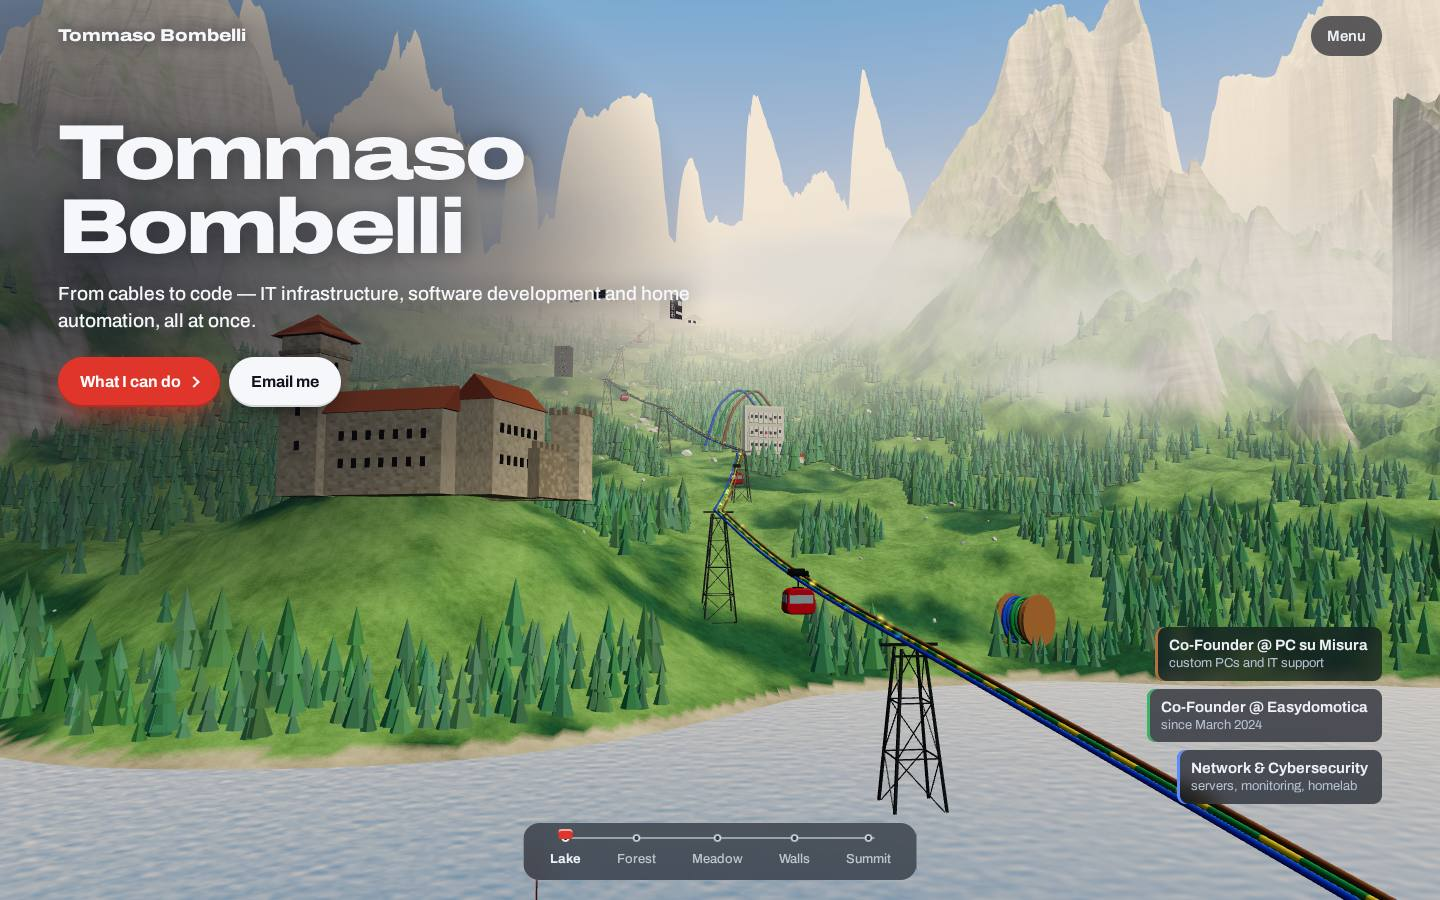
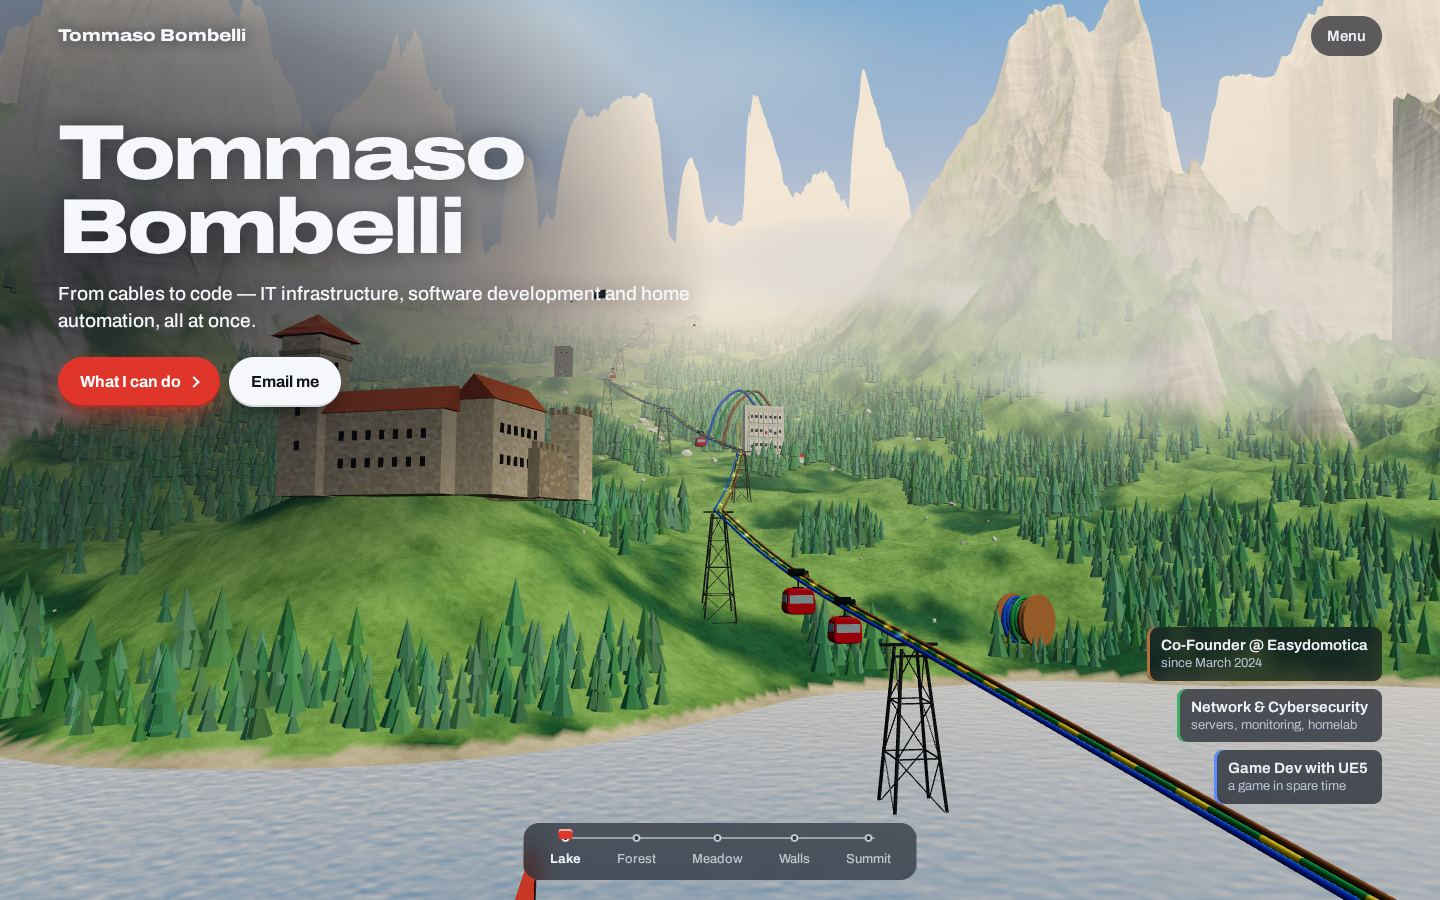
Tolta dal sito la seconda azienda

diff --git a/index.html b/index.html
@@ -11,9 +11,9 @@
 <link rel="stylesheet" href="style.css">
 <script>document.documentElement.classList.add('js');try{var t=localStorage.getItem('theme');if(t)document.documentElement.dataset.theme=t}catch(e){}</script>
 <title>Tommaso Bombelli — IT technician, developer, co-founder</title>
-<meta name="description" content="Tommaso Bombelli: IT technician and developer, co-founder of Easydomotica and PC su Misura. Networks, cybersecurity, home automation, software and a UE5 game.">
+<meta name="description" content="Tommaso Bombelli: IT technician and developer, co-founder of Easydomotica. Networks, cybersecurity, home automation, software and a UE5 game.">
 <meta property="og:title" content="Tommaso Bombelli">
-<meta property="og:description" content="IT technician, developer and co-founder of Easydomotica and PC su Misura. From cables to code.">
+<meta property="og:description" content="IT technician, developer and co-founder of Easydomotica. From cables to code.">
 <meta property="og:type" content="website">
 <meta property="og:url" content="https://tommasobombelli.com/">
 <meta property="og:image" content="https://tommasobombelli.com/img/photo_001.jpg">
@@ -39,7 +39,6 @@
     <li><a href="#lab">Homelab</a></li>
     <li><a href="#projects">Projects</a></li>
     <li><a href="#easydomotica">Easydomotica</a></li>
-    <li><a href="#pcsumisura">PC su Misura</a></li>
     <li><a href="#photography">Photos</a></li>
     <li><a href="#shell-sec">Shell</a></li>
     <li><a href="#contact">Contact</a></li>
@@ -67,9 +66,9 @@
         </div>
       </div>
       <ul class="roles" aria-label="What I do">
-        <li class="role role--L"><p data-role="0">Co-Founder @ PC su Misura<small>custom PCs and IT support</small></p></li>
-        <li class="role role--E"><p data-role="1">Co-Founder @ Easydomotica<small>since March 2024</small></p></li>
-        <li class="role role--N"><p data-role="2">Network &amp; Cybersecurity<small>servers, monitoring, homelab</small></p></li>
+        <li class="role role--L"><p data-role="0">Co-Founder @ Easydomotica<small>since March 2024</small></p></li>
+        <li class="role role--E"><p data-role="1">Network &amp; Cybersecurity<small>servers, monitoring, homelab</small></p></li>
+        <li class="role role--N"><p data-role="2">Game Dev with UE5<small>a game in spare time</small></p></li>
       </ul>
     </section>
     <section class="stop" id="stop-1" data-ink="dark" aria-labelledby="s1-h">
@@ -99,12 +98,11 @@
         <div class="actions">
           <a class="btn btn--go" href="#projects">Projects</a>
           <a class="btn" href="#easydomotica">Easydomotica</a>
-          <a class="btn" href="#pcsumisura">PC su Misura</a>
         </div>
         <div class="peeks">
           <a class="peek" href="#projects"><img src="assets/preview-erp.svg" width="320" height="200" alt="" loading="lazy"><span>Easydomotica ERP</span></a>
           <a class="peek" href="#lab"><img src="assets/preview-lab.svg" width="320" height="200" alt="" loading="lazy"><span>Home Datacenter</span></a>
-          <a class="peek" href="#pcsumisura"><img src="assets/preview-pcsumisura.jpg" width="1280" height="800" alt="" loading="lazy"><span>pcsumisura.net</span></a>
+          <a class="peek" href="#projects"><img src="assets/preview-hass.svg" width="320" height="200" alt="" loading="lazy"><span>HASS Integration</span></a>
         </div>
       </div>
     </section>
@@ -136,7 +134,7 @@
     </figure>
     <div class="plate about__plate">
       <div class="about__text" id="about-text">
-        <p>I'm Tommaso, IT technician and developer near Milan. I started as an electrician, and a year of wiring real systems taught me to think in reliability, safety and structure. Today I co-run Easydomotica and PC su Misura.</p>
+        <p>I'm Tommaso, IT technician and developer near Milan. I started as an electrician, and a year of wiring real systems taught me to think in reliability, safety and structure. Today I co-run Easydomotica.</p>
       </div>
       <ul class="facts" id="about-facts"></ul>
       <section id="certifications" aria-labelledby="cert-h">
@@ -168,12 +166,12 @@
       <article><h3>Monitoring and alerts</h3><p>Metrics from every host and service, dashboards, uptime and speed checks, and alerts that reach me before anyone notices a problem.</p><p class="caps__tools">Prometheus and exporters, Grafana, Alertmanager, Uptime Kuma, MySpeed</p></article>
       <article><h3>Security</h3><p>Firewall rules, access control, updates and isolated test environments, plus a dedicated machine for checking my own setups the way an attacker would.</p><p class="caps__tools">Firewall management, access control, Kali Linux</p></article>
       <article><h3>Databases, backend and automation</h3><p>PostgreSQL instances for the ERP and client projects, Node.js backends, and automated workflows that connect services together.</p><p class="caps__tools">PostgreSQL, Node.js, PM2, n8n</p></article>
-      <article><h3>Smart homes and phone systems</h3><p>Home Assistant instances for testing, demos, backups and remote support, and 3CX phone systems for both companies.</p><p class="caps__tools">Home Assistant, HACS, 3CX</p></article>
+      <article><h3>Smart homes and phone systems</h3><p>Home Assistant instances for testing, demos, backups and remote support, and 3CX phone systems.</p><p class="caps__tools">Home Assistant, HACS, 3CX</p></article>
     </div>
     <div class="setup__foot">
       <aside class="callout" aria-labelledby="callout-h">
         <h3 id="callout-h">Tested at home, then used at work</h3>
-        <p>Everything on this list runs in my homelab before it goes anywhere else. Then I bring the same setups to the business clients of <a class="link" href="#pcsumisura">PC su Misura</a>: monitoring and alerts, backups, DNS filtering, reverse proxies, access control, phone systems and remote support, configured for small offices that have no IT department of their own.</p>
+        <p>Everything on this list runs in my homelab before it goes anywhere else. Then I bring the same setups to business clients: monitoring and alerts, backups, DNS filtering, reverse proxies, access control, phone systems and remote support, configured for small offices that have no IT department of their own.</p>
       </aside>
       <div>
         <h3>Languages and tools</h3>
@@ -200,7 +198,7 @@
       <div><b>Monitoring</b><span>Prometheus, PVE and blackbox exporters, Alertmanager, Grafana, Uptime Kuma, MySpeed</span></div>
       <div><b>Network</b><span>Nginx Proxy Manager, Pi-hole, Unbound</span></div>
       <div><b>Data</b><span>PostgreSQL for the ERP, Home Assistant and client projects</span></div>
-      <div><b>Work</b><span>Backend server, n8n, Home Assistant test and demo machines, 3CX for both companies</span></div>
+      <div><b>Work</b><span>Backend server, n8n, Home Assistant test and demo machines, 3CX phone systems</span></div>
       <div><b>Systems</b><span>Ubuntu and Windows Server VMs, Docker, Kali Linux</span></div>
       <div><b>Media</b><span>Plex, Jellyfin, Kavita and an automated library stack</span></div>
     </div>
@@ -221,7 +219,7 @@
       <div class="ed__top">
         <div>
           <h2 class="sign" id="ed-h">Easydomotica</h2>
-          <p>My first company, co-founded in March 2024. I run the technical side together with my business partner.</p>
+          <p>The company I co-founded in March 2024. I run the technical side together with my business partner.</p>
           <a class="shot" href="https://easydomotica.net" target="_blank" rel="noopener"><img src="assets/preview-easydomotica.jpg" width="1280" height="800" alt="The easydomotica.net home page" loading="lazy"></a>
           <p class="lead">We design and install smart homes from the cable up: lighting, climate, blinds, energy monitoring, CCTV and alarm systems, all working as one system. Behind it runs software I wrote myself.</p>
         </div>
@@ -266,63 +264,6 @@
             <span class="status">v1.4.0, MIT licence</span>
           </div>
         </div>
-      </div>
-    </div>
-  </section>
-
-  <!-- ================= PC SU MISURA ================= -->
-  <section class="page" id="pcsumisura" data-wire="L" aria-labelledby="pc-h">
-    <div class="plate pc">
-      <div class="pc__top">
-        <div>
-          <h2 class="sign" id="pc-h">PC su Misura</h2>
-          <p>My second company: custom PCs, new and refurbished, and IT support for homes and small businesses.</p>
-          <a class="shot" href="https://pcsumisura.net" target="_blank" rel="noopener"><img src="assets/preview-pcsumisura.jpg" width="1280" height="800" alt="The pcsumisura.net home page" loading="lazy"></a>
-          <p class="lead">For small companies and studios with no technician of their own, we are the external IT department: network, servers, backup and security, so they can get on with their work. It's where everything from my homelab gets put to work.</p>
-        </div>
-        <div class="facts-row">
-          <div><b>Free</b><span>IT check-up to start</span></div>
-          <div><b>MSP</b><span>Managed support contracts</span></div>
-          <div><b>Custom</b><span>New or refurbished PCs</span></div>
-          <div><b>Remote</b><span>Most problems fixed without a visit</span></div>
-        </div>
-      </div>
-      <div class="pc__two">
-        <div>
-          <h3>For businesses</h3>
-          <ul class="mini">
-            <li><b>Free check-up</b> of computers, network, backup and security, with the risks explained</li>
-            <li><b>Managed support</b> at a fixed yearly price per device: monitoring, updates, remote help</li>
-            <li><b>Accounts and Microsoft 365</b> for every employee, set up and closed when people come and go</li>
-            <li><b>Servers and domain controller</b>: one login per person for PC, shared folders and programs</li>
-            <li><b>NAS and shared folders</b> with permissions per person</li>
-            <li><b>Network and Wi-Fi</b>: router, firewall, switches and access points</li>
-            <li><b>Advanced endpoint security</b> against ransomware</li>
-            <li><b>Backup and disaster recovery</b>: off-site copies and a plan to restart</li>
-          </ul>
-        </div>
-        <div>
-          <h3>For homes and gamers</h3>
-          <ul class="mini">
-            <li><b>Custom PCs</b> built around use and budget: gaming, work, study, graphics</li>
-            <li><b>Upgrades</b> that save a slow PC for far less than a new one</li>
-            <li><b>Cleaning and thermal paste</b> for PCs and consoles that run hot</li>
-            <li><b>Software cleanup and remote help</b> without losing data</li>
-          </ul>
-          <table class="spec">
-            <caption>What we work with</caption>
-            <tr><th scope="row">Network</th><td>Fortinet, Ubiquiti, Aruba, Cisco</td></tr>
-            <tr><th scope="row">Storage</th><td>Synology, TrueNAS</td></tr>
-            <tr><th scope="row">Servers</th><td>Proxmox, VMware, Hyper-V</td></tr>
-            <tr><th scope="row">Security and backup</th><td>SentinelOne, Cynet, Acronis</td></tr>
-            <tr><th scope="row">Cloud</th><td>Microsoft 365, Azure, AWS, Hetzner</td></tr>
-          </table>
-        </div>
-      </div>
-      <div class="actions">
-        <a class="btn btn--go" href="https://pcsumisura.net" target="_blank" rel="noopener">Visit pcsumisura.net</a>
-        <a class="btn" href="mailto:pcsumisura.info@gmail.com">pcsumisura.info@gmail.com</a>
-        <a class="btn" href="tel:+3903311090522">+39 0331 109 0522</a>
       </div>
     </div>
   </section>

diff --git a/lab.js b/lab.js
@@ -114,11 +114,11 @@
     const FLOWS = [
       { w: 4, path: ['inet', 'fw', 'sw', 'px', 'nginx'], cls: 'ok', log: () => `nginx    GET ${pick(['/erp/api/quotes', '/grafana/d/home', '/status', '/hass/api/states'])} 200 ${rnd(4, 38)}ms` },
       { w: 4, path: ['inet', 'fw'], cls: 'bad', log: () => `fw       drop tcp ${ip()}:${rnd(30000, 65000)} -> wan:${pick([22, 23, 3389, 445, 8080])} (${pick(['ssh scan', 'telnet probe', 'rdp scan', 'smb probe', 'port sweep'])})`, flash: 'fw' },
-      { w: 3, path: ['lan', 'sw', 'px', 'dns'], cls: 'dns', log: () => pick([`pihole   blocked ${pick(['telemetry', 'ads', 'track', 'pixel'])}.${pick(['example-ads.net', 'tracker.example', 'adserver.example.com'])}`, `unbound  resolved ${pick(['github.com', 'pcsumisura.net', 'home-assistant.io', 'proxmox.com'])} in ${rnd(8, 60)}ms`]) },
+      { w: 3, path: ['lan', 'sw', 'px', 'dns'], cls: 'dns', log: () => pick([`pihole   blocked ${pick(['telemetry', 'ads', 'track', 'pixel'])}.${pick(['example-ads.net', 'tracker.example', 'adserver.example.com'])}`, `unbound  resolved ${pick(['github.com', 'easydomotica.net', 'home-assistant.io', 'proxmox.com'])} in ${rnd(8, 60)}ms`]) },
       { w: 2, path: ['prom', 'px', 'grafana'], cls: 'ok', log: () => `prom     scrape ok ${rnd(46, 49)}/49 targets in ${rnd(80, 240)}ms` },
       { w: 2, path: ['kuma', 'px', 'nginx'], cls: 'ok', log: () => `kuma     ${pick(['erp', 'grafana', 'hass-demo', 'pbx', 'portal'])} up, ${rnd(20, 140)}ms` },
       { w: 1, path: ['prom', 'px', 'kuma'], cls: 'warn', log: () => `alert    ${pick(['DiskUsageHigh resolved on pve', 'ContainerRestarted ct-113 (pihole)', 'BackupJob completed 49/49', 'HighLatency resolved on blackbox'])}` },
-      { w: 2, path: ['nginx', 'px', 'pg'], cls: 'ok', log: () => `postgres ${pick(['erp', 'hass', 'pcsumisura'])}: ${pick(['query ok', 'nightly dump done', 'vacuum done'])} ${rnd(2, 90)}ms` },
+      { w: 2, path: ['nginx', 'px', 'pg'], cls: 'ok', log: () => `postgres ${pick(['erp', 'hass', 'portal'])}: ${pick(['query ok', 'nightly dump done', 'vacuum done'])} ${rnd(2, 90)}ms` },
       { w: 2, path: ['lan', 'sw', 'px', 'hass'], cls: 'dns', log: () => `hass     ${pick(['automation "evening lights" ran', 'demo restored from backup', 'remote session opened', 'update check: 0 pending'])}` },
       { w: 2, path: ['inet', 'fw', 'sw', 'px', 'pbx'], cls: 'ok', log: () => `3cx      ${pick(['inbound call routed to ext 101', 'trunk registered', 'voicemail delivered to ext 102'])}` }
     ];
@@ -188,7 +188,7 @@
     const print = (html, cls = '') => { const div = document.createElement('div'); if (cls) div.className = cls; div.innerHTML = `<samp>${html}</samp>`; out.appendChild(div); out.scrollTop = out.scrollHeight; };
     const line = t => print(esc(t));
     const uptime = () => { const s = Math.floor((Date.now() - start) / 1000); return `${Math.floor(s / 60)}m ${s % 60}s`; };
-    const pages = { easydomotica: '#easydomotica', pcsumisura: '#pcsumisura', game: '#projects', certifications: '#certifications', certs: '#certifications', photography: '#photography', photos: '#photography', homelab: '#lab', lab: '#lab', skills: '#skills', github: 'https://github.com/Tommaso-Bombelli', linkedin: 'https://www.linkedin.com/in/tommaso-bombelli-204723286' };
+    const pages = { easydomotica: '#easydomotica', game: '#projects', certifications: '#certifications', certs: '#certifications', photography: '#photography', photos: '#photography', homelab: '#lab', lab: '#lab', skills: '#skills', github: 'https://github.com/Tommaso-Bombelli', linkedin: 'https://www.linkedin.com/in/tommaso-bombelli-204723286' };
     const files = { 'about.txt': 'about', 'skills.txt': 'skills', 'contact.txt': 'contact', 'projects/': 'projects', 'experience.log': 'experience', '.secrets': null };
     const setTheme = t => {
       if (t === 'auto') document.documentElement.removeAttribute('data-theme'); else document.documentElement.dataset.theme = t;
@@ -201,7 +201,7 @@
 <span class="k">experience</span>   where I've worked   <span class="k">projects</span>     what I've built
 <span class="k">skills</span>       stack and tools     <span class="k">certs</span>        certifications
 <span class="k">contact</span>      how to reach me
-<span class="k">ls</span>, <span class="k">cat</span>      browse files        <span class="k">open</span> &lt;place&gt; homelab, easydomotica, pcsumisura, photos, github
+<span class="k">ls</span>, <span class="k">cat</span>      browse files        <span class="k">open</span> &lt;place&gt; homelab, easydomotica, photos, github
 <span class="k">ping</span>         measure this site   <span class="k">nmap</span>         scan this site
 <span class="k">neofetch</span>     system info         <span class="k">theme</span>        dark, light or auto
 <span class="k">history</span>      past commands       <span class="k">clear</span>        clean the screen`),
@@ -223,7 +223,7 @@
       cd: a => (a[0] && a[0].replace('/', '') === 'projects' ? cmds.projects() : line('tbsh: there are no directories worth visiting. Try: open <page>')),
       open: a => {
         const k = (a[0] || '').toLowerCase().replace(/\.html$/, '');
-        if (!pages[k]) return line('open: try skills, homelab, easydomotica, pcsumisura, game, photos, github or linkedin');
+        if (!pages[k]) return line('open: try skills, homelab, easydomotica, game, photos, github or linkedin');
         line(`opening ${pages[k]}…`);
         setTimeout(() => { if (/^https?:/.test(pages[k])) window.open(pages[k], '_blank', 'noopener'); else location.hash = pages[k]; }, 300);
       },

diff --git a/world.js b/world.js
@@ -52,10 +52,10 @@ const routeY = z => { if (z <= HEADS[0][2]) return HEADS[0][1]; for (let i = 1; 
 const ROCCA = { x: 118, z: 196 };
 /* what stands at each stop (x, z), on ground levelled for it */
 const STAND = {
-  board: [-62, 540], rack: [92, 930], house: [-90, 1311], pc: [-61, 1353],
+  board: [-62, 540], rack: [92, 930], house: [-90, 1311],
   mast: [45, 1545], screen: [51, 1482], line: [109, 1539, 79, 1520]
 };
-const PADS = [[...STAND.board, 34], [...STAND.rack, 60], [...STAND.house, 30], [...STAND.pc, 28], [...STAND.mast, 26], [...STAND.screen, 22], [94, 1530, 30]];
+const PADS = [[...STAND.board, 34], [...STAND.rack, 60], [...STAND.house, 30], [...STAND.mast, 26], [...STAND.screen, 22], [94, 1530, 30]];
 /* the ground: a lake, then a valley along the line, then walls on both sides and a great range ahead */
 const rawHeight = (x, z) => {
   const d = Math.abs(x - routeX(z));
@@ -502,7 +502,7 @@ void main(){vec3 v=normalize(uCam-w);
     addHot(g, '#lab', 'Homelab', 72, 44, 40);
   }
 
-  /* the walls: what he builds. The smart home, with rooms switching on, and a custom PC the size of a house */
+  /* the walls: what he builds. The smart home, with rooms switching on */
   {
     const h = new THREE.Group();
     part(h, new THREE.BoxGeometry(26, 13, 18), flat('#efe7d8'), 0, 6.5, 0);
@@ -522,26 +522,6 @@ void main(){vec3 v=normalize(uCam-w);
     place(h, ...STAND.house, .32, 1);
     addHot(h, '#easydomotica', 'Easydomotica', 34, 28, 26);
 
-    const pc = new THREE.Group();
-    part(pc, new THREE.BoxGeometry(20, 42, 34), std('#101317', { metalness: .7, roughness: .3 }), 0, 21, 0);
-    const glassP = part(pc, new THREE.PlaneGeometry(32, 40), new THREE.MeshBasicMaterial({ color: '#0a0f18', fog: false }), -10.05, 21, 0); glassP.rotation.y = -Math.PI / 2;
-    const rings = [];
-    [[-10.2, 33, -10], [-10.2, 21, -10], [-10.2, 9, -10]].forEach(p => {
-      const col = new THREE.Color('#5c8cff');
-      const m = new THREE.MeshBasicMaterial({ color: col, fog: false });
-      const r = part(pc, new THREE.TorusGeometry(4.4, .42, 8, 30).rotateY(Math.PI / 2), m, ...p); rings.push(m);
-      const blades = part(pc, new THREE.BoxGeometry(.2, 7.2, 1.2), new THREE.MeshBasicMaterial({ color: '#2a3442' }), ...p); fans.push(blades);
-      const b2 = part(pc, new THREE.BoxGeometry(.2, 1.2, 7.2), new THREE.MeshBasicMaterial({ color: '#2a3442' }), ...p); fans.push(b2);
-    });
-    /* motherboard, cooler and the graphics card behind the glass */
-    part(pc, new THREE.BoxGeometry(.3, 34, 22), new THREE.MeshBasicMaterial({ color: '#16232a' }), -9.6, 21, 7);
-    part(pc, new THREE.BoxGeometry(2.6, 3.6, 18), std('#39424c', { metalness: .8 }), -10.4, 14, 8);
-    const gpuLine = new THREE.MeshBasicMaterial({ color: '#ff5f7f', fog: false });
-    part(pc, new THREE.BoxGeometry(.25, .7, 18), gpuLine, -11.8, 12.2, 8); rings.push(gpuLine);
-    part(pc, new THREE.BoxGeometry(3.6, 7, 7), std('#596470', { metalness: .85 }), -10.6, 30, 8);
-    rgb.push(...rings);
-    place(pc, ...STAND.pc, -.72, 1);
-    addHot(pc, '#pcsumisura', 'PC su Misura', 24, 44, 38);
   }
 
   /* the summit: the mast from the Col Alt photograph, a screen outside the hut, his photographs drying on the line */
@@ -691,9 +671,8 @@ void main(){vec3 v=normalize(uCam-w);
     cv: { stop: 1, at: at('board', 20), from: [-6, 6, -84] },
     skills: { stop: 2, at: at('rack', 18), from: [18, 10, -104] },
     lab: { stop: 2, at: at('rack', 20), from: [-8, 6, -72] },
-    projects: { stop: 3, at: at('house', 14).lerp(at('pc', 14), .5), from: [10, 18, -130] },
+    projects: { stop: 3, at: at('house', 12), from: [6, 16, -112] },
     easydomotica: { stop: 3, at: at('house', 11), from: [-4, 8, -58] },
-    pcsumisura: { stop: 3, at: at('pc', 22), from: [-22, 2, -84] },
     photography: { stop: 4, at: new THREE.Vector3(94, heightAt(94, 1530) + 9, 1530), from: [6, 3, -34] },
     terminal: { stop: 4, at: at('screen', 12), from: [-8, 3, -44] },
     contact: { stop: 4, at: at('mast', 24), from: [-8, -4, -96] }

diff --git a/404.html b/404.html
@@ -24,7 +24,6 @@
     <li><a href="/#lab">Homelab</a></li>
     <li><a href="/#projects">Projects</a></li>
     <li><a href="/#easydomotica">Easydomotica</a></li>
-    <li><a href="/#pcsumisura">PC su Misura</a></li>
     <li><a href="/#photography">Photos</a></li>
     <li><a href="/#shell-sec">Shell</a></li>
     <li><a href="/#contact">Contact</a></li>

diff --git a/README.md b/README.md
@@ -14,7 +14,7 @@ Five stops, one scroll each. The light changes from morning to night, and each s
 |---|---|---|---|
 | <img src="docs/forest.jpg" width="240" alt="A giant distribution board in a forest clearing"> | **Forest** | The distribution board, where it all started | About, Experience |
 | <img src="docs/meadow.jpg" width="240" alt="A server rack and 49 containers on a meadow"> | **Meadow** | A server rack and 49 containers, for my homelab | Skills, Homelab |
-| <img src="docs/walls.jpg" width="240" alt="A smart home and a giant custom PC under pink Dolomite walls at sunset"> | **Walls** | A smart home and a giant custom PC, for my two companies | Projects, Easydomotica, PC su Misura |
+| <img src="docs/walls.jpg" width="240" alt="A smart home under pink Dolomite walls at sunset"> | **Walls** | A smart home with rooms switching on, for Easydomotica | Projects, Easydomotica |
 | <img src="docs/summit.jpg" width="240" alt="A hut, a radio mast and a screen running a shell at night"> | **Summit** | A radio mast, a screen running the shell, my photos on a line | Contact, Shell, Photography |
 
 The first stop, **Lake**, has a model of the Rocca di Angera, which opens About, and a cable drum, which opens Skills.
